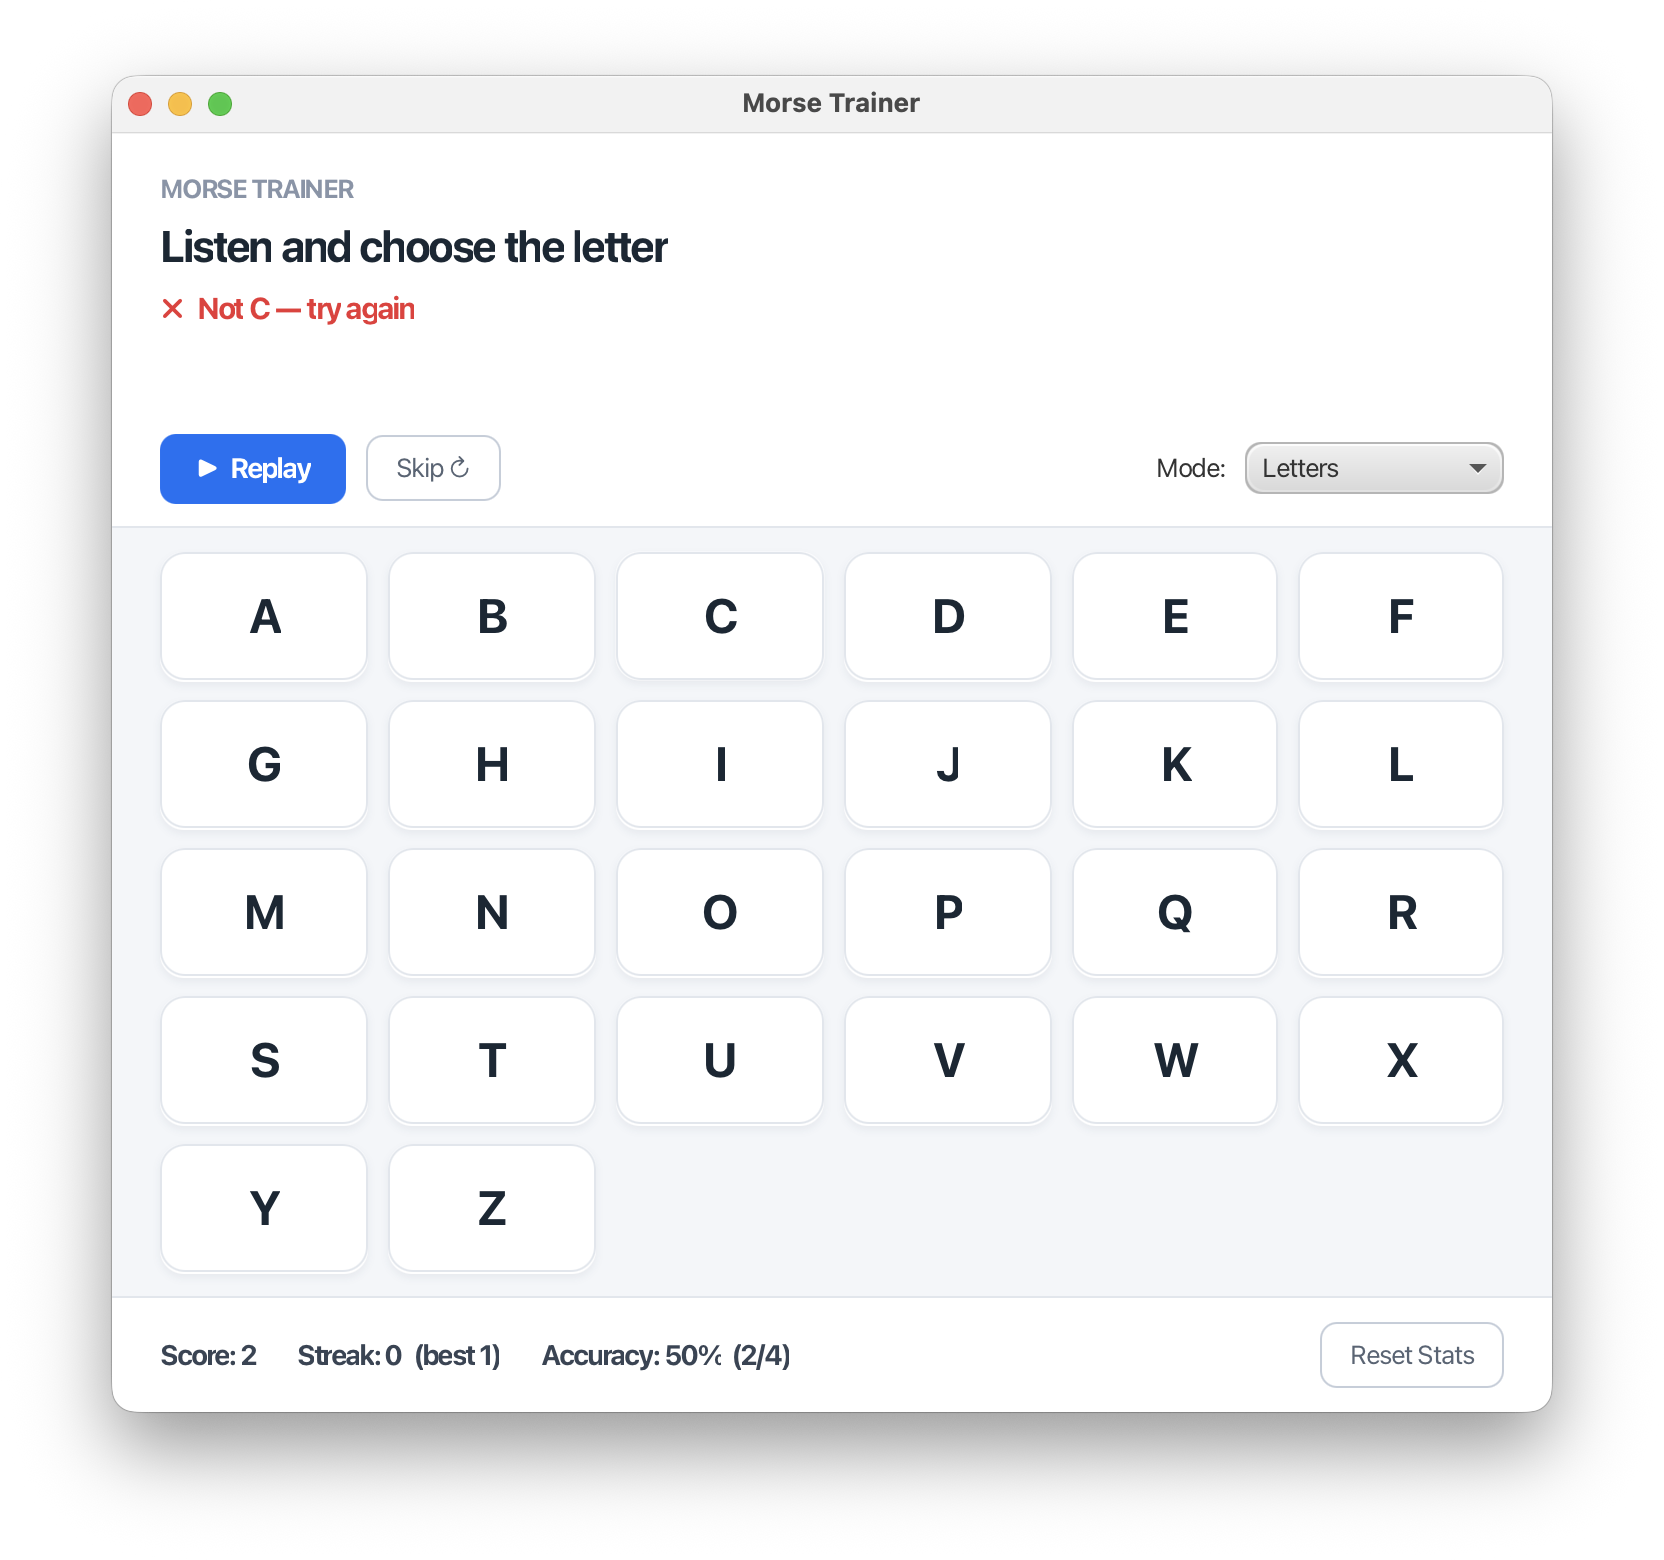
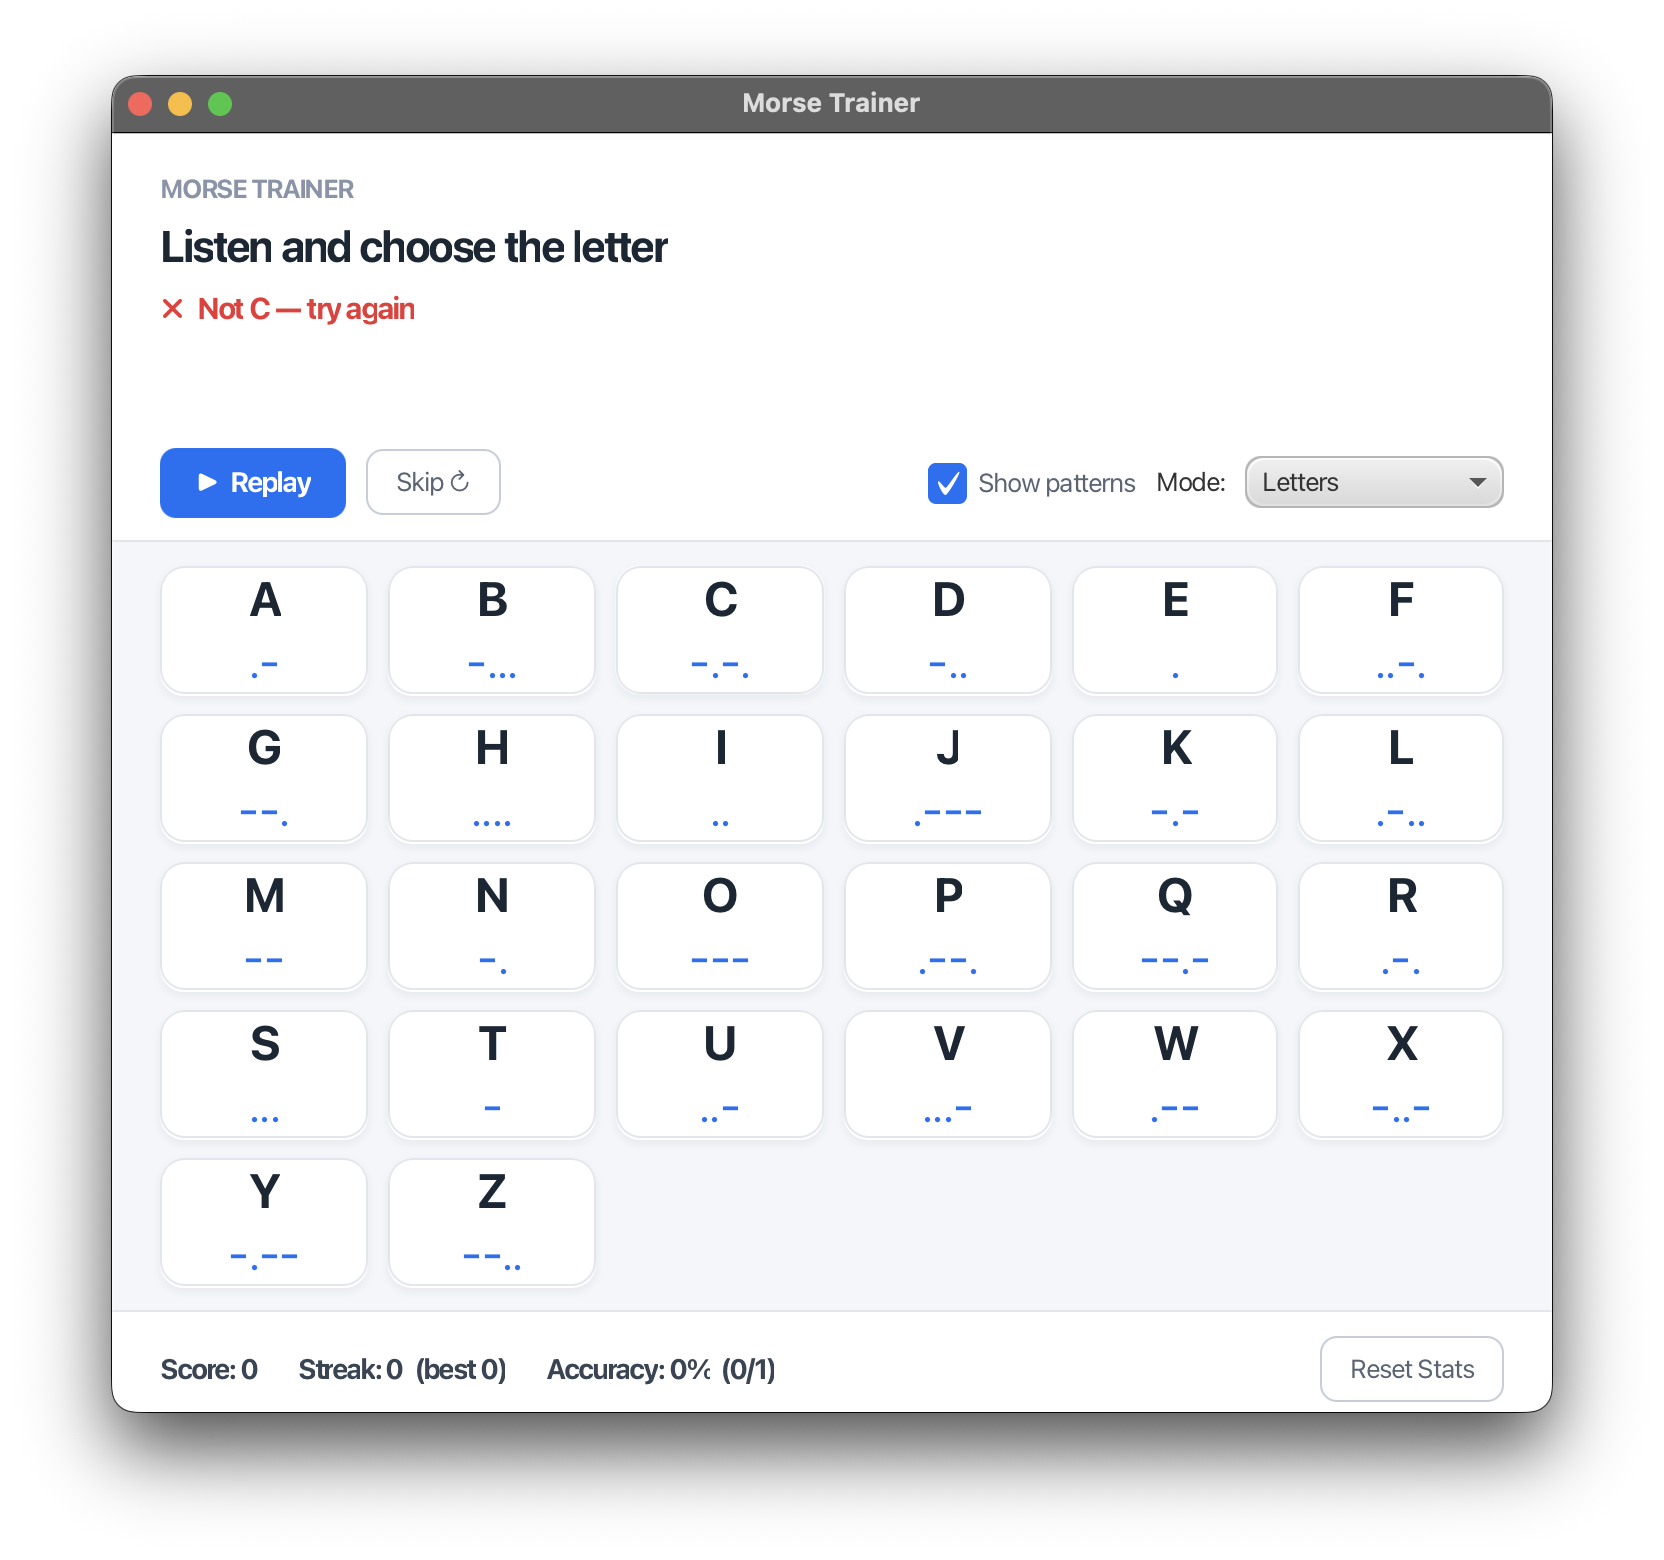
Add morse to the bootom of each letter

diff --git a/src/main/resources/styles.css b/src/main/resources/styles.css
@@ -46,7 +46,7 @@
 
 .morse-pattern {
     -fx-font-family: "Consolas", "Courier New", monospace;
-    -fx-font-size: 26px;
+    -fx-font-size: 32px;
     -fx-text-fill: #2f6fed;
     -fx-letter-spacing: 4px;
     -fx-min-height: 32px;
@@ -104,9 +104,6 @@
 
 .letter-btn {
     -fx-background-color: white;
-    -fx-text-fill: #1c2733;
-    -fx-font-size: 24px;
-    -fx-font-weight: bold;
     -fx-min-width: 64px;
     -fx-min-height: 64px;
     -fx-pref-width: 80px;
@@ -118,6 +115,21 @@
     -fx-effect: dropshadow(gaussian, rgba(20,40,70,0.06), 6, 0, 0, 2);
 }
 
+/* The letter, stacked above its (optional) pattern. */
+.letter-glyph {
+    -fx-font-size: 24px;
+    -fx-font-weight: bold;
+    -fx-text-fill: #1c2733;
+}
+
+/* The dot/dash pattern shown below the letter when "Show patterns" is on. */
+.letter-pattern {
+    -fx-font-family: "Consolas", "Courier New", monospace;
+    -fx-font-size: 24px;
+    -fx-text-fill: #2f6fed;
+    -fx-letter-spacing: 1px;
+}
+
 .letter-btn:hover {
     -fx-background-color: #eaf1ff;
     -fx-border-color: #2f6fed;
@@ -127,18 +139,24 @@
     -fx-background-color: #dbe7ff;
 }
 
-/* Correct answer flash */
+/* Correct answer flash — recolour the child labels too. */
 .letter-btn.correct {
     -fx-background-color: #1a9e5c;
-    -fx-text-fill: white;
     -fx-border-color: #178a50;
 }
+.letter-btn.correct .letter-glyph,
+.letter-btn.correct .letter-pattern {
+    -fx-text-fill: white;
+}
 
-/* Wrong answer flash */
+/* Wrong answer flash — recolour the child labels too. */
 .letter-btn.wrong {
     -fx-background-color: #d9443f;
-    -fx-text-fill: white;
     -fx-border-color: #c23a36;
+}
+.letter-btn.wrong .letter-glyph,
+.letter-btn.wrong .letter-pattern {
+    -fx-text-fill: white;
 }
 
 /* ── Stats bar ──────────────────────────────────────────── */
@@ -153,4 +171,25 @@
     -fx-font-size: 14px;
     -fx-text-fill: #3a4453;
     -fx-font-weight: bold;
+}
+
+/* "Show patterns" toggle in the controls row */
+.pattern-toggle {
+    -fx-font-size: 13px;
+    -fx-text-fill: #5a6473;
+}
+
+.pattern-toggle .box {
+    -fx-background-radius: 4;
+    -fx-border-radius: 4;
+    -fx-border-color: #c6cdd8;
+}
+
+.pattern-toggle:selected .mark {
+    -fx-background-color: white;
+}
+
+.pattern-toggle:selected .box {
+    -fx-background-color: #2f6fed;
+    -fx-border-color: #2f6fed;
 }

diff --git a/src/main/java/org/tauasa/apps/morsegame/ui/GameView.java b/src/main/java/org/tauasa/apps/morsegame/ui/GameView.java
@@ -6,6 +6,7 @@ import javafx.geometry.Insets;
 import javafx.geometry.Pos;
 import javafx.scene.Scene;
 import javafx.scene.control.Button;
+import javafx.scene.control.CheckBox;
 import javafx.scene.control.ComboBox;
 import javafx.scene.control.Label;
 import javafx.scene.layout.*;
@@ -49,6 +50,13 @@ public class GameView {
 
     // Letter buttons keyed by character, so we can flash the right one.
     private final Map<Character, Button> letterButtons = new HashMap<>();
+
+    // The dot/dash pattern label inside each button, keyed by character,
+    // so we can show/hide them together when the toggle changes.
+    private final Map<Character, Label> patternLabels = new HashMap<>();
+
+    // When true, each grid button shows its Morse pattern below the letter.
+    private boolean showPatterns = false;
 
     // Status / stats labels
     private Label promptLabel;
@@ -143,8 +151,14 @@ public class GameView {
         Region spacer = new Region();
         HBox.setHgrow(spacer, Priority.ALWAYS);
 
+        // Toggle: show the dot/dash pattern beneath each letter (a learning aid).
+        CheckBox patternToggle = new CheckBox("Show patterns");
+        patternToggle.getStyleClass().add("pattern-toggle");
+        patternToggle.setSelected(showPatterns);
+        patternToggle.setOnAction(e -> setShowPatterns(patternToggle.isSelected()));
+
         HBox controls = new HBox(10, replayButton, skipButton, spacer,
-                                 new Label("Mode:"), modeBox);
+                                 patternToggle, new Label("Mode:"), modeBox);
         controls.setAlignment(Pos.CENTER_LEFT);
         controls.getStyleClass().add("controls");
 
@@ -176,13 +190,29 @@ public class GameView {
     private void populateGrid() {
         grid.getChildren().clear();
         letterButtons.clear();
+        patternLabels.clear();
 
         List<Character> chars = gameService.characters();
         int cols = computeColumns(chars.size());
 
         for (int i = 0; i < chars.size(); i++) {
             char c = chars.get(i);
-            Button btn = new Button(String.valueOf(c));
+
+            // Letter on top, Morse pattern below — stacked in a VBox so the
+            // pattern can be shown or hidden without changing the layout.
+            Label letterLbl = new Label(String.valueOf(c));
+            letterLbl.getStyleClass().add("letter-glyph");
+
+            Label patternLbl = new Label(gameService.morseFor(c));
+            patternLbl.getStyleClass().add("letter-pattern");
+            patternLbl.setVisible(showPatterns);
+            patternLbl.setManaged(showPatterns); // collapse space when hidden
+
+            VBox content = new VBox(2, letterLbl, patternLbl);
+            content.setAlignment(Pos.CENTER);
+
+            Button btn = new Button();
+            btn.setGraphic(content);
             btn.getStyleClass().add("letter-btn");
             btn.setMaxWidth(Double.MAX_VALUE);
             btn.setMaxHeight(Double.MAX_VALUE);
@@ -194,6 +224,16 @@ public class GameView {
             int col = i % cols;
             grid.add(btn, col, row);
             letterButtons.put(c, btn);
+            patternLabels.put(c, patternLbl);
+        }
+    }
+
+    /** Toggle the dot/dash pattern under every letter. */
+    private void setShowPatterns(boolean show) {
+        this.showPatterns = show;
+        for (Label lbl : patternLabels.values()) {
+            lbl.setVisible(show);
+            lbl.setManaged(show);
         }
     }
 

diff --git a/src/main/java/org/tauasa/apps/morsegame/game/GameService.java b/src/main/java/org/tauasa/apps/morsegame/game/GameService.java
@@ -24,7 +24,7 @@ import org.tauasa.apps.morsegame.audio.MorseConverter;
 @Service
 public class GameService {
 
-    private MorseConverter converter = new MorseConverter();
+    private MorseConverter converter = new MorseConverter(); // Spring injects the shared bean, but allow default for tests
     private Random         random = new Random();
 
     private GameMode  mode    = GameMode.LETTERS;
@@ -37,7 +37,6 @@ public class GameService {
     public GameService() {
         
     }
-
     /** Spring injects the shared {@link MorseConverter} bean. */
     public GameService(MorseConverter converter) {
         this(converter, new Random());
@@ -61,6 +60,11 @@ public class GameService {
     /** The characters currently in play (for laying out the grid). */
     public List<Character> characters() {
         return mode.characters();
+    }
+
+    /** The Morse code pattern for a single character (e.g. 'A' → ".-"). */
+    public String morseFor(char c) {
+        return converter.encode(String.valueOf(c));
     }
 
     // ── Round lifecycle ────────────────────────────────────────────────────────────